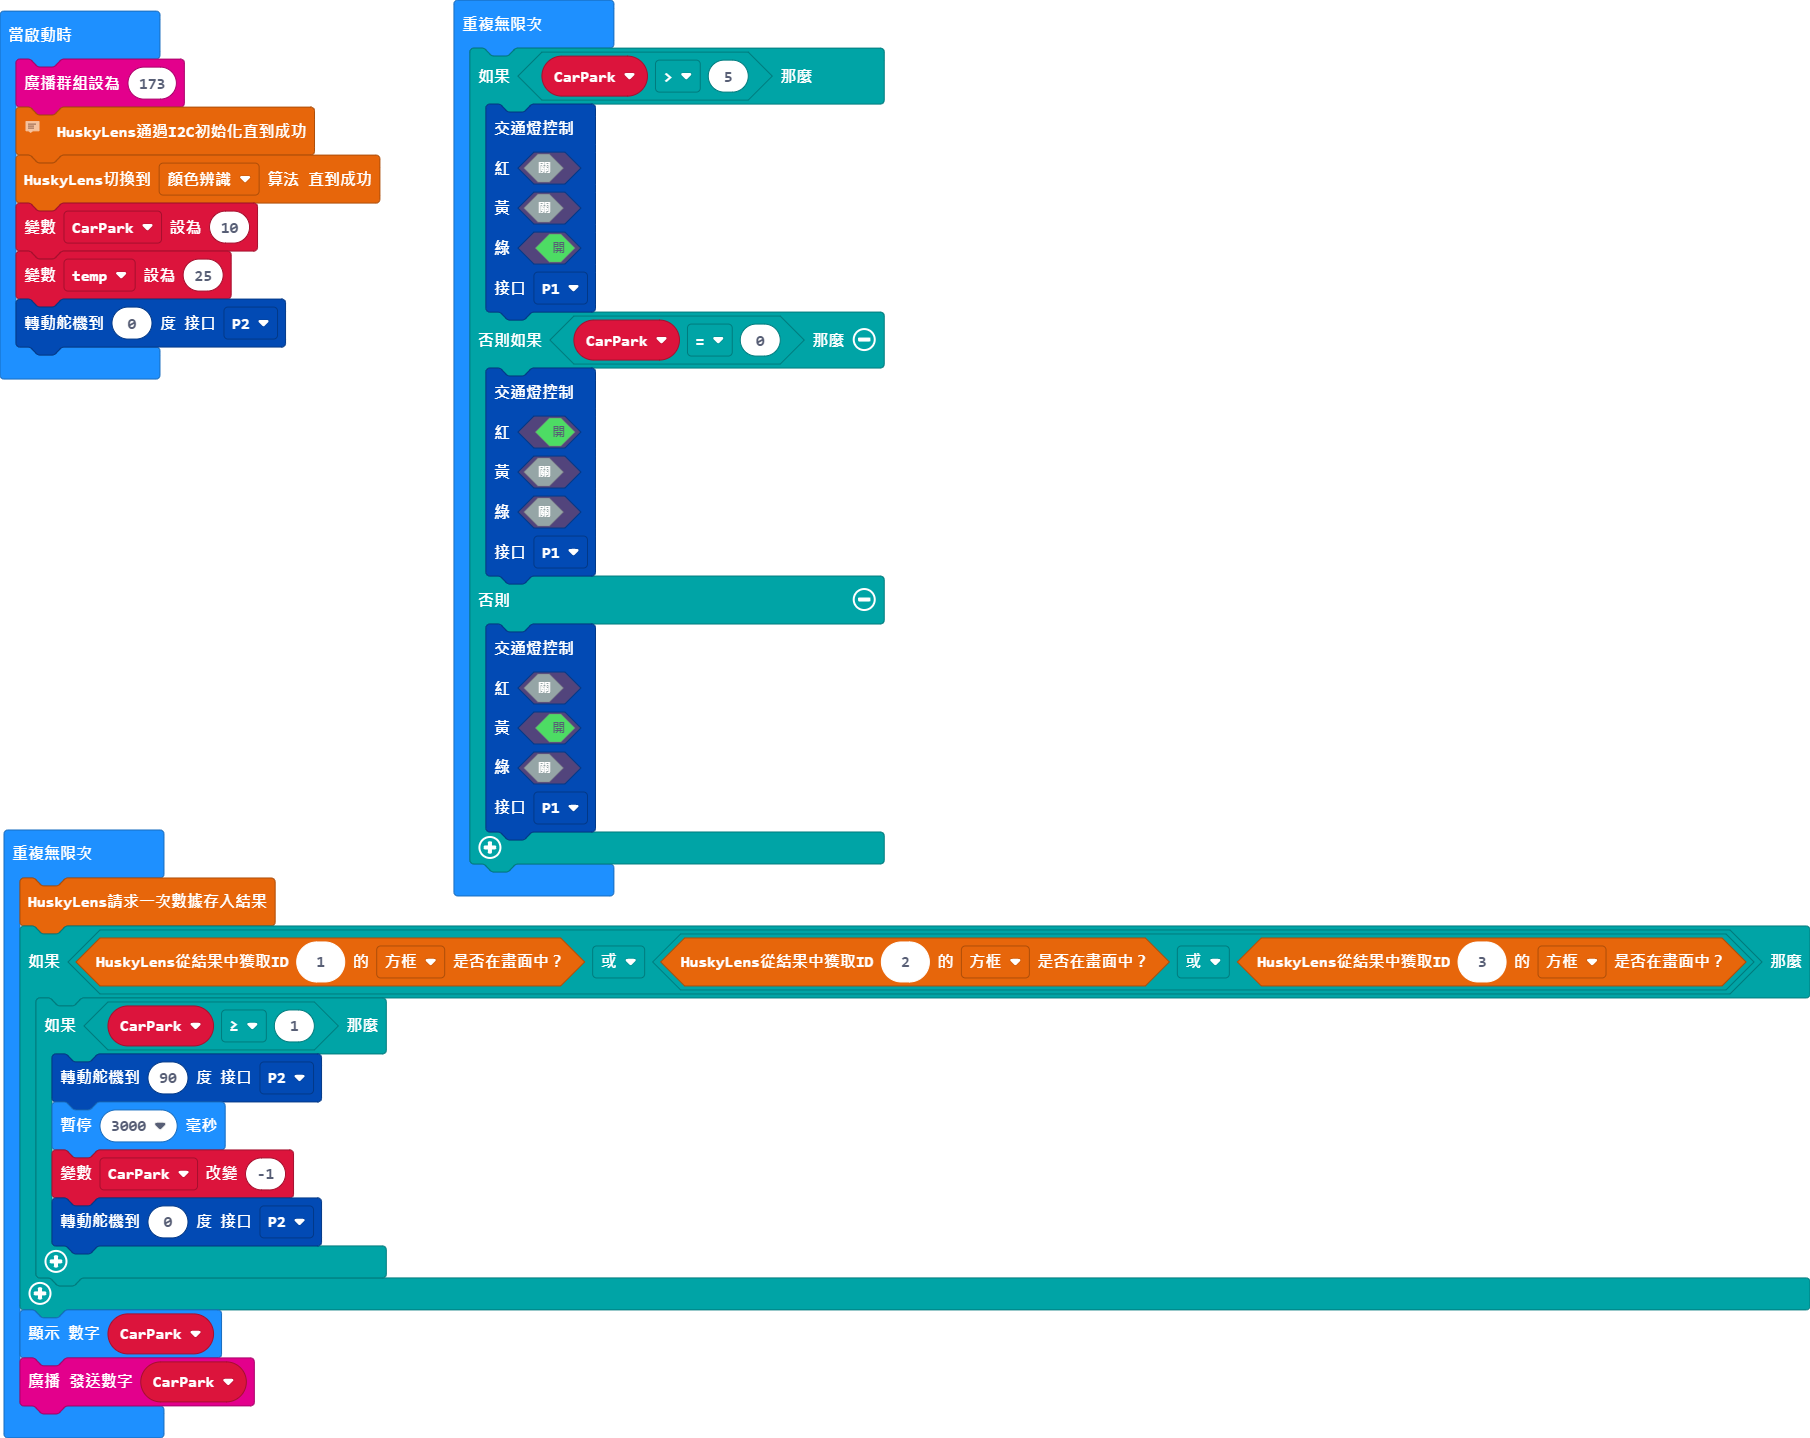
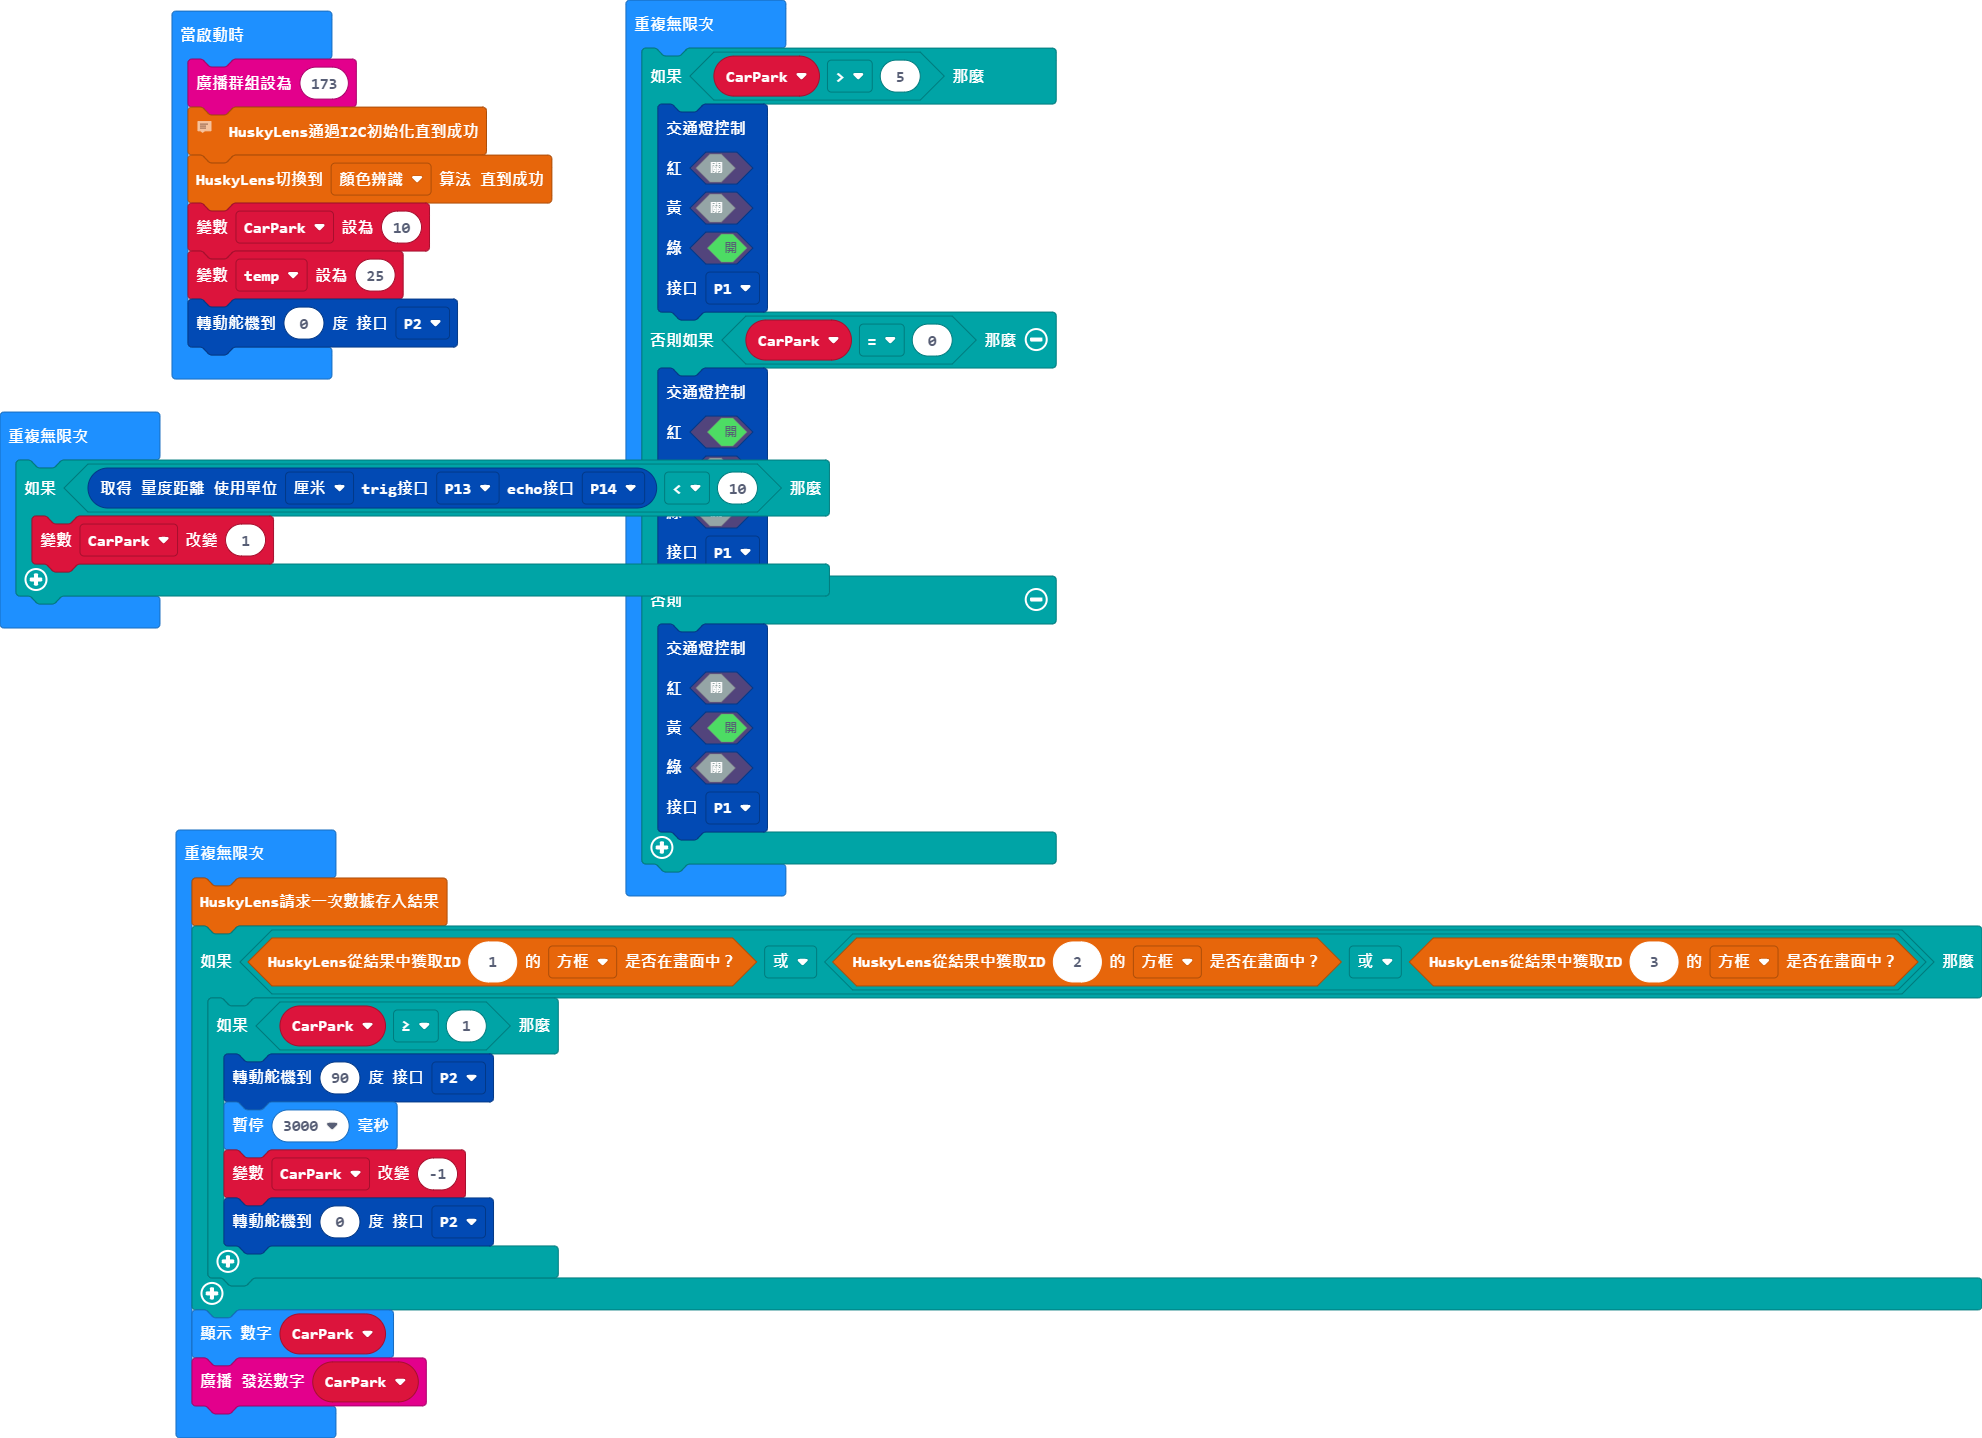
更新 main.blocks, main.ts

Changed region(s): [[0.0, 0.0, 1.0, 1.0], [0.4641, 0.5508, 0.5569, 0.612], [0.4641, 0.3978, 0.5569, 0.459]]

diff --git a/main.ts b/main.ts
@@ -37,6 +37,11 @@ basic.forever(function () {
     }
 })
 basic.forever(function () {
+    if (SmartCity.read_distance_sensor(SmartCity.DistanceUnit.Centimeters, DigitalPin.P13, DigitalPin.P14) < 10) {
+        CarPark += 1
+    }
+})
+basic.forever(function () {
     huskylens.request()
     if (huskylens.isAppear(1, HUSKYLENSResultType_t.HUSKYLENSResultBlock) || (huskylens.isAppear(2, HUSKYLENSResultType_t.HUSKYLENSResultBlock) || huskylens.isAppear(3, HUSKYLENSResultType_t.HUSKYLENSResultBlock))) {
         if (CarPark >= 1) {
